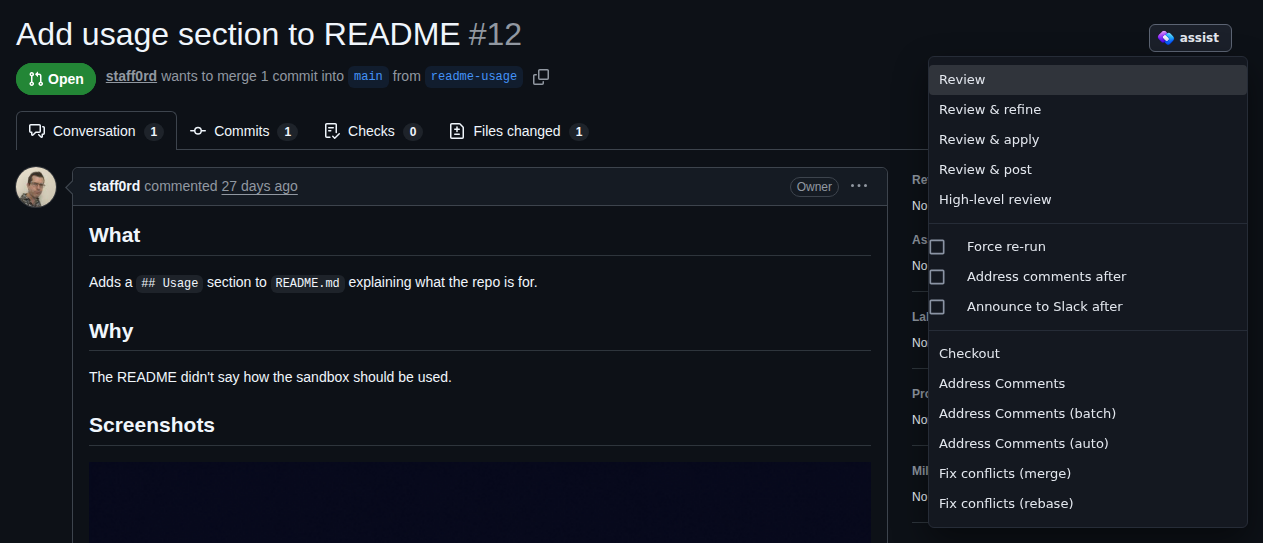
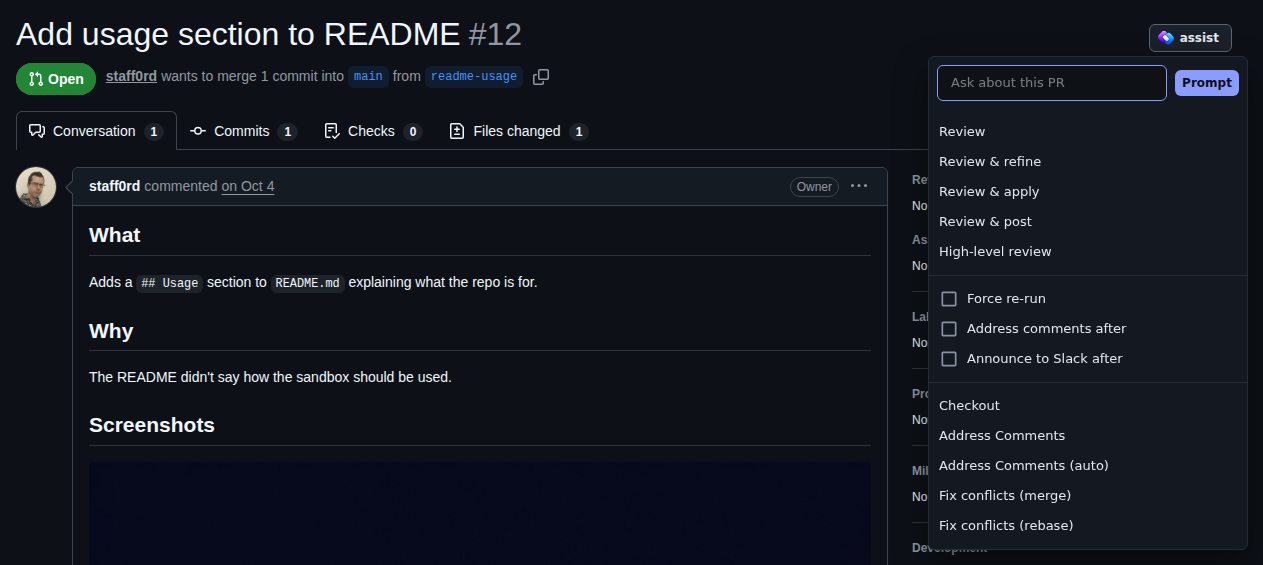
docs: start over, PR prompt, skill hints

diff --git a/src/docs/starlight/renderIcon.ts b/src/docs/starlight/renderIcon.ts
@@ -1,18 +1,24 @@
+import ArrowDropDown from "@mui/icons-material/ArrowDropDown";
 import CloseFullscreen from "@mui/icons-material/CloseFullscreen";
 import DeleteOutlined from "@mui/icons-material/DeleteOutlined";
 import MoreVert from "@mui/icons-material/MoreVert";
 import OpenInFull from "@mui/icons-material/OpenInFull";
 import PlayArrow from "@mui/icons-material/PlayArrow";
+import Replay from "@mui/icons-material/Replay";
+import RestartAlt from "@mui/icons-material/RestartAlt";
 import StarBorder from "@mui/icons-material/StarBorder";
 import { createElement, type ElementType } from "react";
 import { renderToStaticMarkup } from "react-dom/server";
 
 const icons: Record<string, ElementType> = {
+	ArrowDropDown,
 	CloseFullscreen,
 	DeleteOutlined,
 	MoreVert,
 	OpenInFull,
 	PlayArrow,
+	Replay,
+	RestartAlt,
 	StarBorder,
 };
 

diff --git a/docs/src/content/docs/sessions-session-area.md b/docs/src/content/docs/sessions-session-area.md
@@ -30,7 +30,8 @@ On the right, the git change counts open the [diff](../sessions-diff/), and togg
 
 - **Add agent** (:kbd[Alt+Z]) starts another agent in the same working copy, with a prompt you type, so it picks up the work in progress. It is offered while the session is still working.
 - **VS Code** (:kbd[Alt+X]) opens the session's working copy in VS Code.
-- **Restart** ends the agent and resumes its conversation in a fresh process, after asking. **Retry** reruns a run session, or an assist command that couldn't be restored.
+- :icon[RestartAlt] **Restart** ends the agent and resumes its conversation in a fresh process, after asking. Its :icon[ArrowDropDown] dropdown has **Start over**, which discards the conversation and starts a new one with only the session's first prompt.
+- :icon[Replay] **Retry** appears on a [run session](../sessions-creating/#run-sessions), running the command again, and on a backlog run that didn't come back after the daemon restarted, starting it again.
 - **Star** pins the session to the top of the sidebar. For a backlog run, the star belongs to the item, so it carries over to the item's next session.
 - **Transfer**, on a backlog run, moves the run to a [linked node](../sessions-linked-nodes/) that has the repo, or from one back to this node. Uncommitted and unpushed changes go with it.
 - **Done** (:kbd[Alt+C]), on a backlog item's session, marks the item done and ends the session, along with any dev server started from it. Hold :kbd[Shift] as you click it or press :kbd[Enter] to skip the confirmation.
@@ -39,6 +40,10 @@ On the right, the git change counts open the [diff](../sessions-diff/), and togg
 [Pull request](../pull-requests/), [review](../sessions-pr-review/) and [server](../sessions-creating/#run-sessions) buttons appear for sessions that have them.
 
 Commands an agent runs to act on its own card, such as `/close` and `/rename`, are on [Session commands](../sessions-cli/#slash-commands).
+
+## Skill suggestions
+
+Typing a word starting with `/` in a box whose text goes to the agent lists the skills and commands that match it. :kbd[ArrowUp] and :kbd[ArrowDown] move through the list, :kbd[Tab] or :kbd[Enter] puts the highlighted one in your text, and :kbd[Esc] closes the list. You can also click one.
 
 ## The terminal
 

diff --git a/docs/src/content/docs/browser-extension.md b/docs/src/content/docs/browser-extension.md
@@ -19,7 +19,7 @@ screenshots:
       - "text=/Esc to/ >> visible=true"
     cropPadding: 16
   - file: browser-extension-review-menu.png
-    alt: The assist button's menu on a GitHub pull request, listing review modes, options and pull request actions
+    alt: The assist button's menu on a GitHub pull request, with Ask about this PR above review modes, options and pull request actions
     url: https://github.com/staff0rd/sandbox/pull/12
     actions:
       - script: show-header-actions
@@ -65,11 +65,11 @@ The extension adds an **assist** button beside each comment and review on a pull
 
 The repo must be cloned under `clone.baseDir`.
 
-On a pull request, the header button opens the same menu as the dashboard's [Review menu](../sessions-pr-review/#choosing-a-review): its review modes and options, **Checkout**, **Address Comments** and **Fix conflicts**.
+On a pull request, the header button opens the dashboard's [Review menu](../sessions-pr-review/#choosing-a-review), with **Ask about this PR** to prompt about it without checking it out.
 
 ::screenshot{file="browser-extension-review-menu.png"}
 
-On an Azure DevOps pull request it offers **Checkout** and **Address Comments**, which need the Azure CLI with its `azure-devops` extension, logged in with `az login`.
+On an Azure DevOps pull request it offers **Ask about this PR**, **Checkout** and **Address Comments**, which need the Azure CLI with its `azure-devops` extension, logged in with `az login`.
 
 ## Issue and pull request status
 

diff --git a/docs/CLAUDE.md b/docs/CLAUDE.md
@@ -73,3 +73,4 @@ Start the `docs` run entry (`server: docs`, `docs:preview` on 4173) from the das
 - **R14** — **Toggled settings by key** — For a setting the UI toggles, name only its config key, not an assist config set command
 - **R15** — **No failure paths** — Do not document how a command fails or falls back, such as exit codes or what the agent does instead
 - **R17** — **No layout narrative** — Do not describe how the screen is laid out or how the layout adapts to the window (beside, below, widths, breakpoints); give a control's position only when the user needs it to find that control
+- **R18** — **No lists of places** — Say where a feature applies by the kind of place it covers, not by listing every screen, field or button it shows up in

diff --git a/docs/src/content/docs/ios-app.md b/docs/src/content/docs/ios-app.md
@@ -185,6 +185,7 @@ Tap **⋯** on a session's screen, or long-press its row in the list, for its ac
 - **Mark done…** marks a backlog item done and ends its session.
 - **Auto-advance phases** is the dashboard's [Continue](../backlog-running/#steering-a-run) toggle for a backlog run.
 - **Transfer to node** moves a backlog run to another node.
+- :icon[Replay] **Start over session**, beside :icon[Replay] **Restart session**, discards the conversation and starts a new one with only the session's first prompt.
 - Tap the `#` number in the header to copy the session's id.
 
 ::screenshot{file="ios-app-actions.png"}
